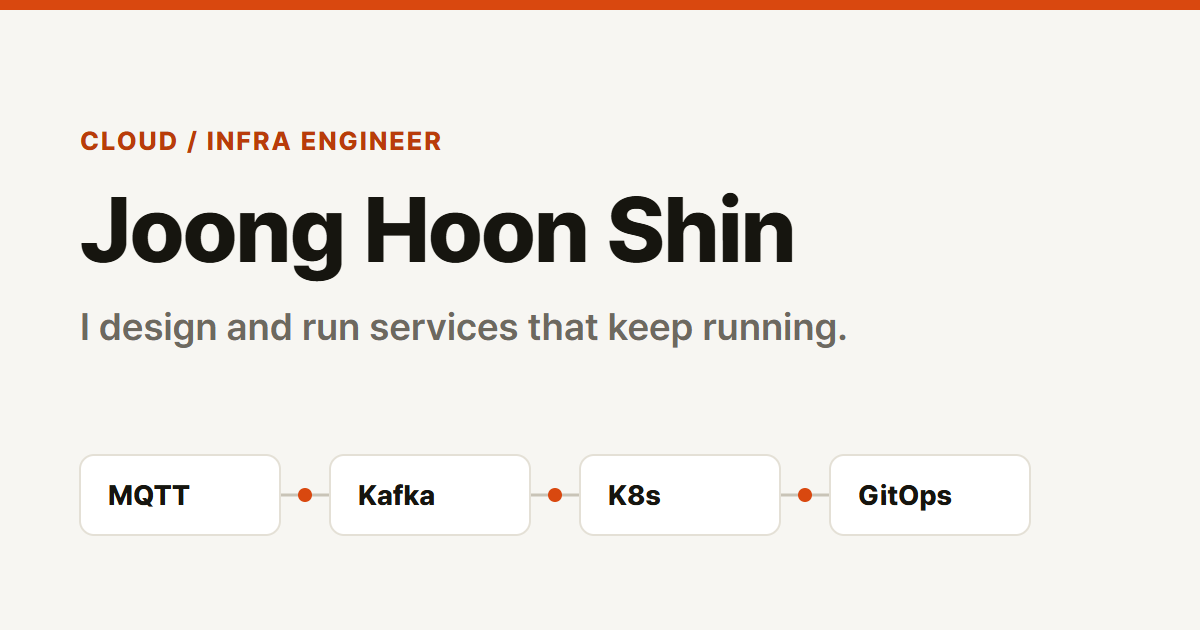
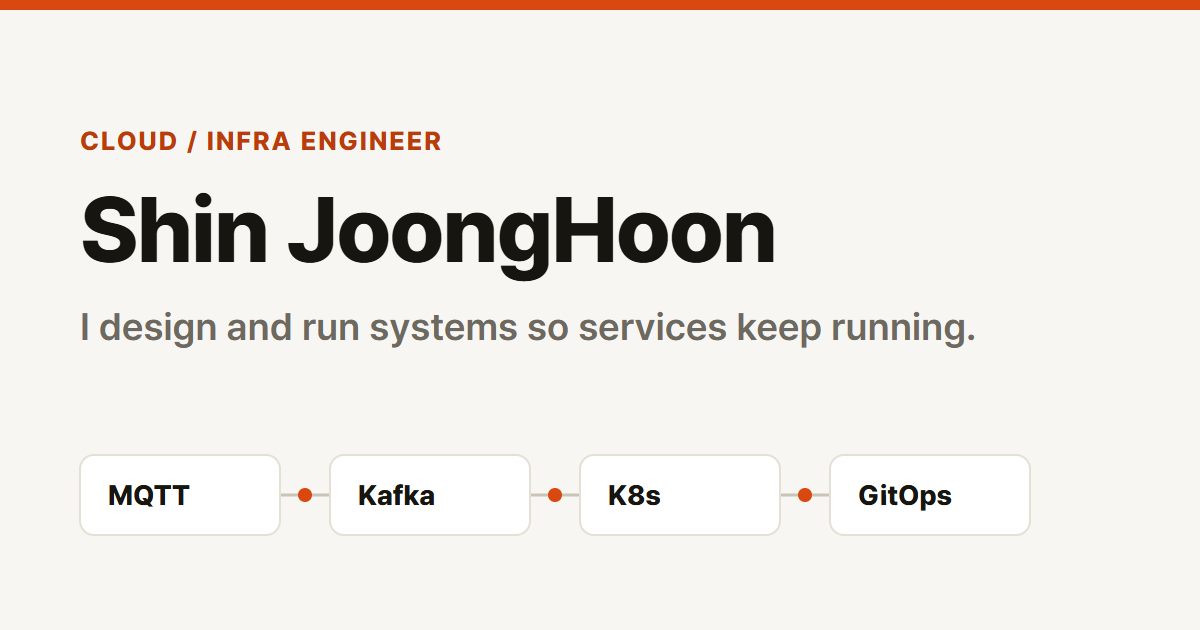
content: 소개 글·공개 이메일·영어 이름, VPN table 220 운영 기록, 회고에 확인된 한계 추가

Changed region(s): [[0.0617, 0.3016, 0.6783, 0.4524], [0.3083, 0.4825, 0.8325, 0.573]]

diff --git a/tests/e2e/project.spec.ts b/tests/e2e/project.spec.ts
@@ -42,7 +42,8 @@ test.describe('BARO case study (ko)', () => {
 
   test('lists incidents, decisions and prose in their sections', async ({ page }) => {
     await page.goto('/projects/baro/');
-    await expect(page.locator('#ops .incident')).toHaveCount(3);
+    await expect(page.locator('#ops .incident')).toHaveCount(4);
+    await expect(page.locator('#incident-baro-vpn-table220 h3')).toHaveText('VPN 터널은 살아 있는데 AWS로 가는 트래픽이 사라졌다');
     await expect(page.locator('#ops .incident').first().locator('h3')).toHaveText('Kafka가 멈추자 관제 화면도 멈췄다');
     await expect(page.locator('#incident-baro-kafka-block')).toBeVisible();
     await expect(page.locator('#decisions .decision')).toHaveCount(6);

diff --git a/tests/e2e/home.spec.ts b/tests/e2e/home.spec.ts
@@ -13,7 +13,10 @@ test.describe('home (ko)', () => {
     await expect(page.locator('#ops .incident')).toHaveCount(3);
     await expect(page.locator('#ops .incident .tag')).toHaveText(['BARO', 'BARO', 'StockPulse']);
     await expect(page.locator('.stack .grp')).toHaveCount(6);
-    await expect(page.locator('#about .pending')).toBeVisible();
+    await expect(page.locator('#about .pending')).toHaveCount(0);
+    await expect(page.locator('#about p')).toHaveCount(3);
+    await expect(page.locator('#about a[href="mailto:ion011227@gmail.com"]')).toBeVisible();
+    await expect(page.locator('.hero a[href="mailto:ion011227@gmail.com"]')).toBeVisible();
     expect(errors).toEqual([]);
   });
 

diff --git a/src/i18n/en.ts b/src/i18n/en.ts
@@ -1,9 +1,9 @@
 import type { ko } from './ko';
 
 export const en: Record<keyof typeof ko, string> = {
-  'meta.siteTitle': 'Joong Hoon Shin — Cloud/Infra Engineer',
+  'meta.siteTitle': 'Shin JoongHoon — Cloud/Infra Engineer',
   'meta.siteDescription':
-    'Portfolio of Joong Hoon Shin, who has designed and run hybrid AWS–on-prem infrastructure, real-time Kafka pipelines and GitOps-managed Kubernetes.',
+    'Portfolio of Shin JoongHoon, who has designed and run hybrid AWS–on-prem infrastructure, real-time Kafka pipelines and GitOps-managed Kubernetes.',
   'a11y.skip': 'Skip to content',
   'nav.label': 'Main menu',
   'nav.projects': 'Projects',

diff --git a/tests/unit/site.test.ts b/tests/unit/site.test.ts
@@ -18,6 +18,6 @@ describe('site constants', () => {
   it('has unique project slugs and both author names', () => {
     expect(new Set(PROJECT_SLUGS).size).toBe(PROJECT_SLUGS.length);
     expect(SITE.author.ko).toBe('신중훈');
-    expect(SITE.author.en).toBe('Joong Hoon Shin');
+    expect(SITE.author.en).toBe('Shin JoongHoon');
   });
 });

diff --git a/src/lib/site.ts b/src/lib/site.ts
@@ -1,5 +1,5 @@
 export const SITE = {
-  author: { ko: '신중훈', en: 'Joong Hoon Shin' },
+  author: { ko: '신중훈', en: 'Shin JoongHoon' },
   githubUrl: 'https://github.com/ION127',
 } as const;
 

diff --git a/docs/facts.md b/docs/facts.md
@@ -13,6 +13,7 @@
 | baro.demo-ack | ACK 10초 안에 없으면 다시 배차 | dispatch-service `application.yml` (`ack-timeout-seconds`) | 초안 |
 | baro.demo-relocation | 재배치: 반경 10km(없으면 30km) 승차대 중 0.7 × 정규화 가중치 − 0.3 × 정규화 거리 | relocation-service `RelocationService.assignRelocation` | 초안 |
 | baro.lag | Kafka consumer lag 2.9M → hot path DB 조회 제거로 해소 | baro-server PR #89 | 초안 |
+| baro.vpn-table220 | StrongSwan(charon)이 table 220에 넣은 policy route가 main table보다 먼저 적용돼 AWS 대역 트래픽이 VTI 대신 Wi-Fi 기본 경로로 나감. 호스트 VPN 스크립트가 터널 상태 변경 때 충돌 경로 제거 | baro-team 내부 문서 `docs/network-vpn.md`(Table 220 충돌) | 초안 |
 | baro.lag-rate | 메시지마다 DB 조회. 당시 차량 1,000대 × 초당 1건이라 초당 1,000회 가까이(PR #89 커밋 메시지는 333msg/sec라고 적었지만 3배속을 빼고 계산한 값으로 보인다) | baro-server PR #89, baro-edge `config.py` | 초안 |
 | baro.kafka-block | producer `max.block.ms` 60000 → 500, retries 0 | baro-server PR #103 | 초안 |
 | baro.mosquitto-queue | `max_queued_messages` 1000(기본) → 10000(PR #67) → 0(무제한, PR #88) → 몇 분 뒤 50000(PR #89, OOM 위험) | baro-terraform PR #67 · #88 · #89, baro-edge `mosquitto.conf` | 초안 |
@@ -26,6 +27,7 @@
 | baro.iot-core-switch | IoT Core → EC2 Mosquitto 전환 (2026-06-16) | baro-terraform PR #44 | 초안 |
 | baro.kafka-ec2 | Kafka ECS+EFS → EC2+EBS 이전 (2026-06-04) | baro-terraform `ec2-kafka.tf` | 초안 |
 | stockpulse.tickers | 추적 종목 108개 (미국 68 + 한국 40) | StockPulse `core/stock_categories.py` | 초안 |
+| stockpulse.minute-path | 분봉 스트리밍 탐지는 신호를 내지 못한다: 한국은 메시지당 종목별 봉 1개(탐지는 2개 미만이면 건너뜀), 미국은 tz를 뗀 ET 시각을 UTC 컨테이너 시계와 비교해 최근 5분 필터에서 탈락. 실제 신호는 api의 매시간 일봉 경로. 사이트에는 회고로만 쓴다 | StockPulse `services/kis-bridge/main.py`(`_flush_candles`), `services/anomaly-detector/main.py`, `core/stock_fetcher.py`(`detect_anomalies`, tz_localize), `services/api/main.py`(APScheduler) | 초안 |
 | stockpulse.sectors | 10개 섹터, 섹터마다 미국 ETF 2 · 종목 5, 한국 ETF 1 · 종목 3(AMZN · TSLA는 두 섹터에 중복) | StockPulse `core/stock_categories.py` | 초안 |
 | stockpulse.detect | 이상값: 1분 등락률 미국 3.0% · 한국 4.0% 이상 또는 Z-score 2.0 이상(최근 20개 봉, 둘 중 하나) | StockPulse `k8s/configmap.yaml`(`ANOMALY_THRESHOLD_PERCENT`, `ANOMALY_ZSCORE_THRESHOLD`), `core/stock_fetcher.detect_anomalies` | 초안 |
 | stockpulse.classify | 분류: 같은 방향 섹터 ETF 3개 섹터 이상 또는 움직인 섹터 3개 이상 → 시장, ETF 자신 · 자기 섹터 ETF · 같은 섹터 종목 1개 이상 → 업종, 나머지 → 개별 | StockPulse `core/stock_fetcher.classify_event_type` | 초안 |

diff --git a/src/content/incidents/ko/baro-vpn-table220.md b/src/content/incidents/ko/baro-vpn-table220.md
@@ -1,0 +1,13 @@
+---
+project: baro
+order: 4
+highlight: false
+title: 'VPN 터널은 살아 있는데 AWS로 가는 트래픽이 사라졌다'
+symptom: 'StrongSwan 터널은 ESTABLISHED인데, 온프레미스에서 AWS 사설 엔드포인트로 연결이 되지 않았습니다.'
+cause: 'StrongSwan(charon)이 SA를 맺을 때 Linux routing table 220에 policy route를 자동으로 넣는데, table 220은 main table보다 먼저 평가돼 AWS 대역 트래픽이 VTI가 아닌 Wi-Fi 기본 경로로 나갔습니다.'
+fix: '터널 상태가 바뀔 때마다 호스트 VPN 스크립트가 충돌하는 table 220 경로를 지우도록 했습니다.'
+lesson: '터널이 붙었다는 것과 트래픽이 터널로 간다는 것은 다릅니다. ip route get으로 실제로 선택되는 경로와 source IP를 먼저 확인합니다.'
+---
+AWS VPC와 온프레미스(OpenStack)는 Site-to-Site VPN으로 이어져 있고, 온프레미스 쪽 끝은 OpenStack 호스트의 StrongSwan VTI 터널입니다. 터널 상태만 보면 정상인데 AWS 쪽 사설 엔드포인트로 가는 연결이 실패했습니다. `ip route get <AWS 사설 IP>`를 보니 경로가 VTI가 아니라 Wi-Fi 인터페이스로 잡혀 있었고, `ip route show table 220`에 AWS 대역 경로가 들어 있었습니다. charon이 자동으로 넣은 경로가 main table의 VTI 경로보다 먼저 적용된 것입니다.
+
+이제 호스트 스크립트가 터널 상태가 바뀔 때마다 이 경로를 정리합니다. 재부팅 뒤에도 `br-ex` · 경로 · iptables를 먼저 복구한 다음 터널과 VTI 경로를 올리는 순서를 지키도록 운영 절차로 정리했습니다.

diff --git a/src/content/incidents/en/baro-vpn-table220.md b/src/content/incidents/en/baro-vpn-table220.md
@@ -1,0 +1,13 @@
+---
+project: baro
+order: 4
+highlight: false
+title: 'The VPN tunnel was up, but traffic to AWS vanished'
+symptom: 'The StrongSwan tunnel showed ESTABLISHED, yet on-prem hosts could not reach private endpoints in AWS.'
+cause: 'When StrongSwan (charon) brings up an SA it can add policy routes to Linux routing table 220, which is evaluated before the main table, so traffic for the AWS range left through the Wi-Fi default route instead of the VTI.'
+fix: 'Made the host VPN script remove the conflicting table 220 routes whenever the tunnel state changes.'
+lesson: 'A tunnel being up is not the same as traffic using it. I check the route and source IP that are actually selected with ip route get first.'
+---
+The AWS VPC and the on-prem OpenStack cloud are joined by a Site-to-Site VPN, and the on-prem end is a StrongSwan VTI tunnel on the OpenStack host. The tunnel looked healthy, but connections to private endpoints in AWS failed. `ip route get <AWS private IP>` showed the route going out the Wi-Fi interface rather than the VTI, and `ip route show table 220` held routes for the AWS range: the routes charon had added were being applied before the VTI routes in the main table.
+
+The host script now cleans up those routes whenever the tunnel state changes. After a reboot, the operating procedure restores `br-ex`, host routes and iptables first, and only then brings up the tunnel and its VTI routes.
